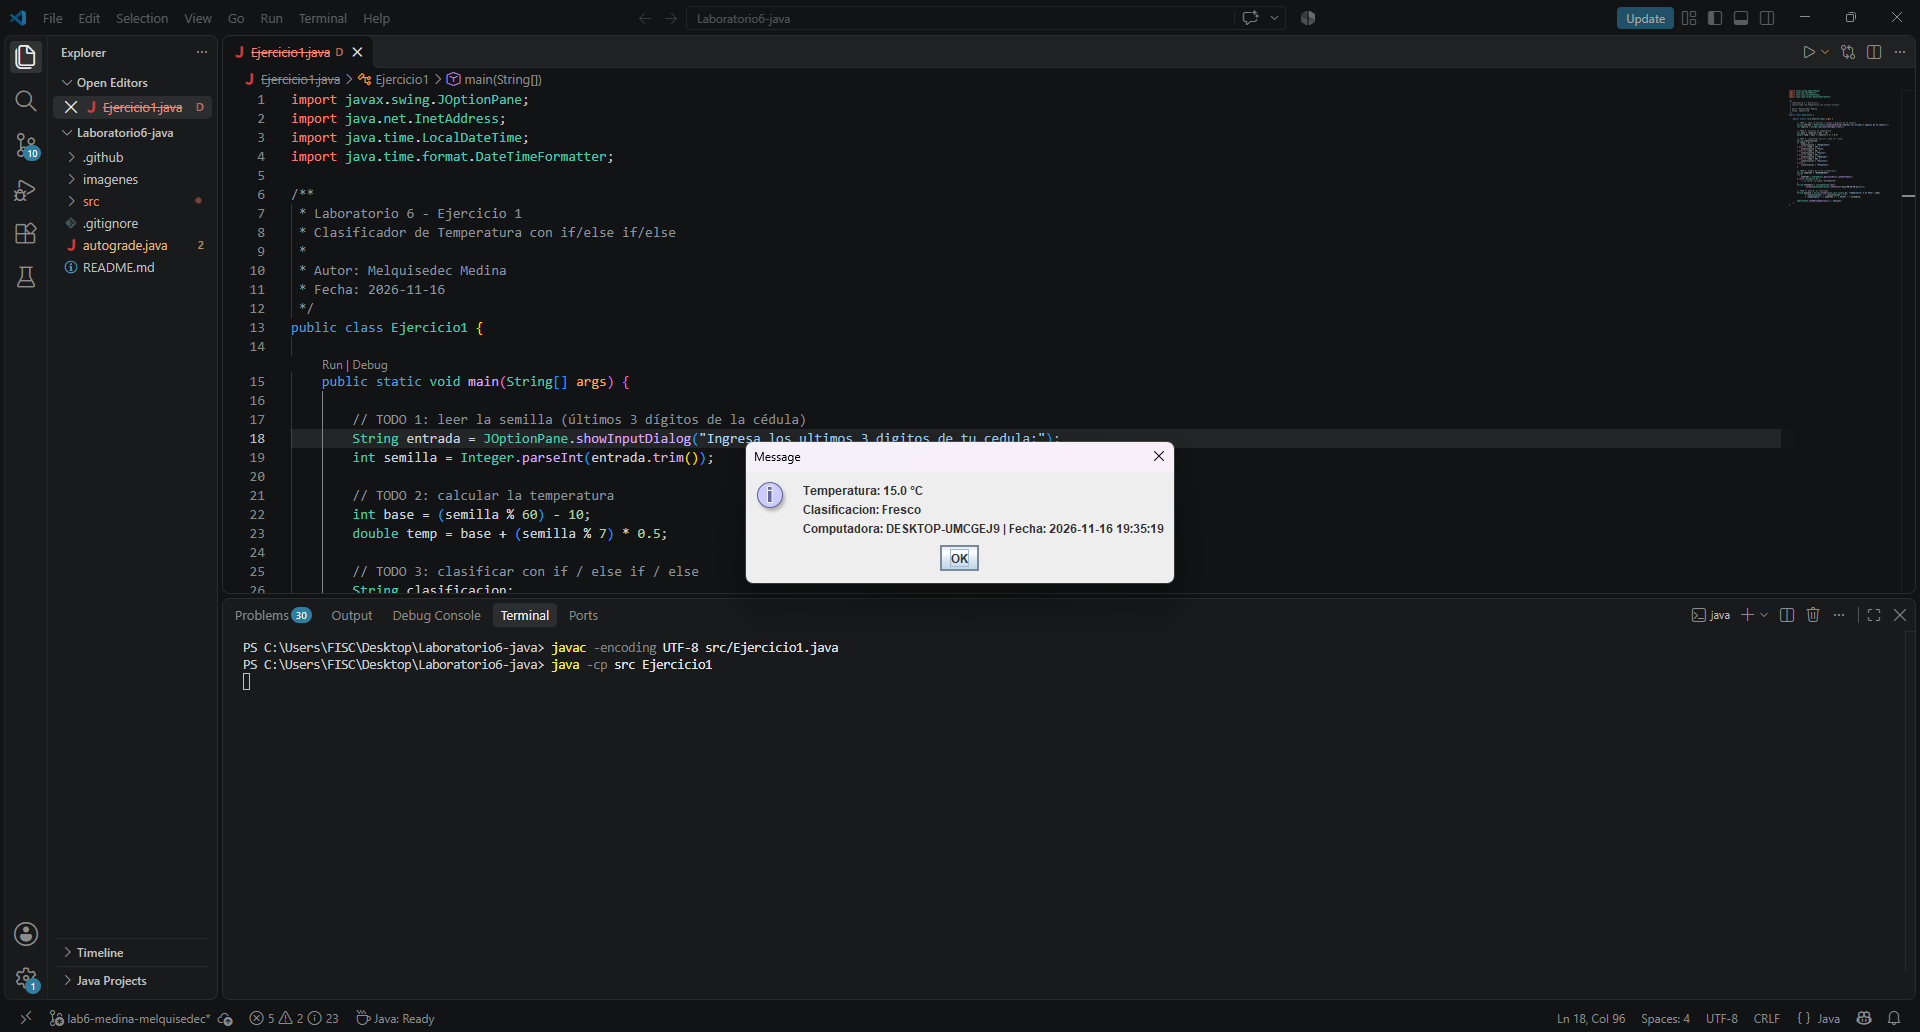
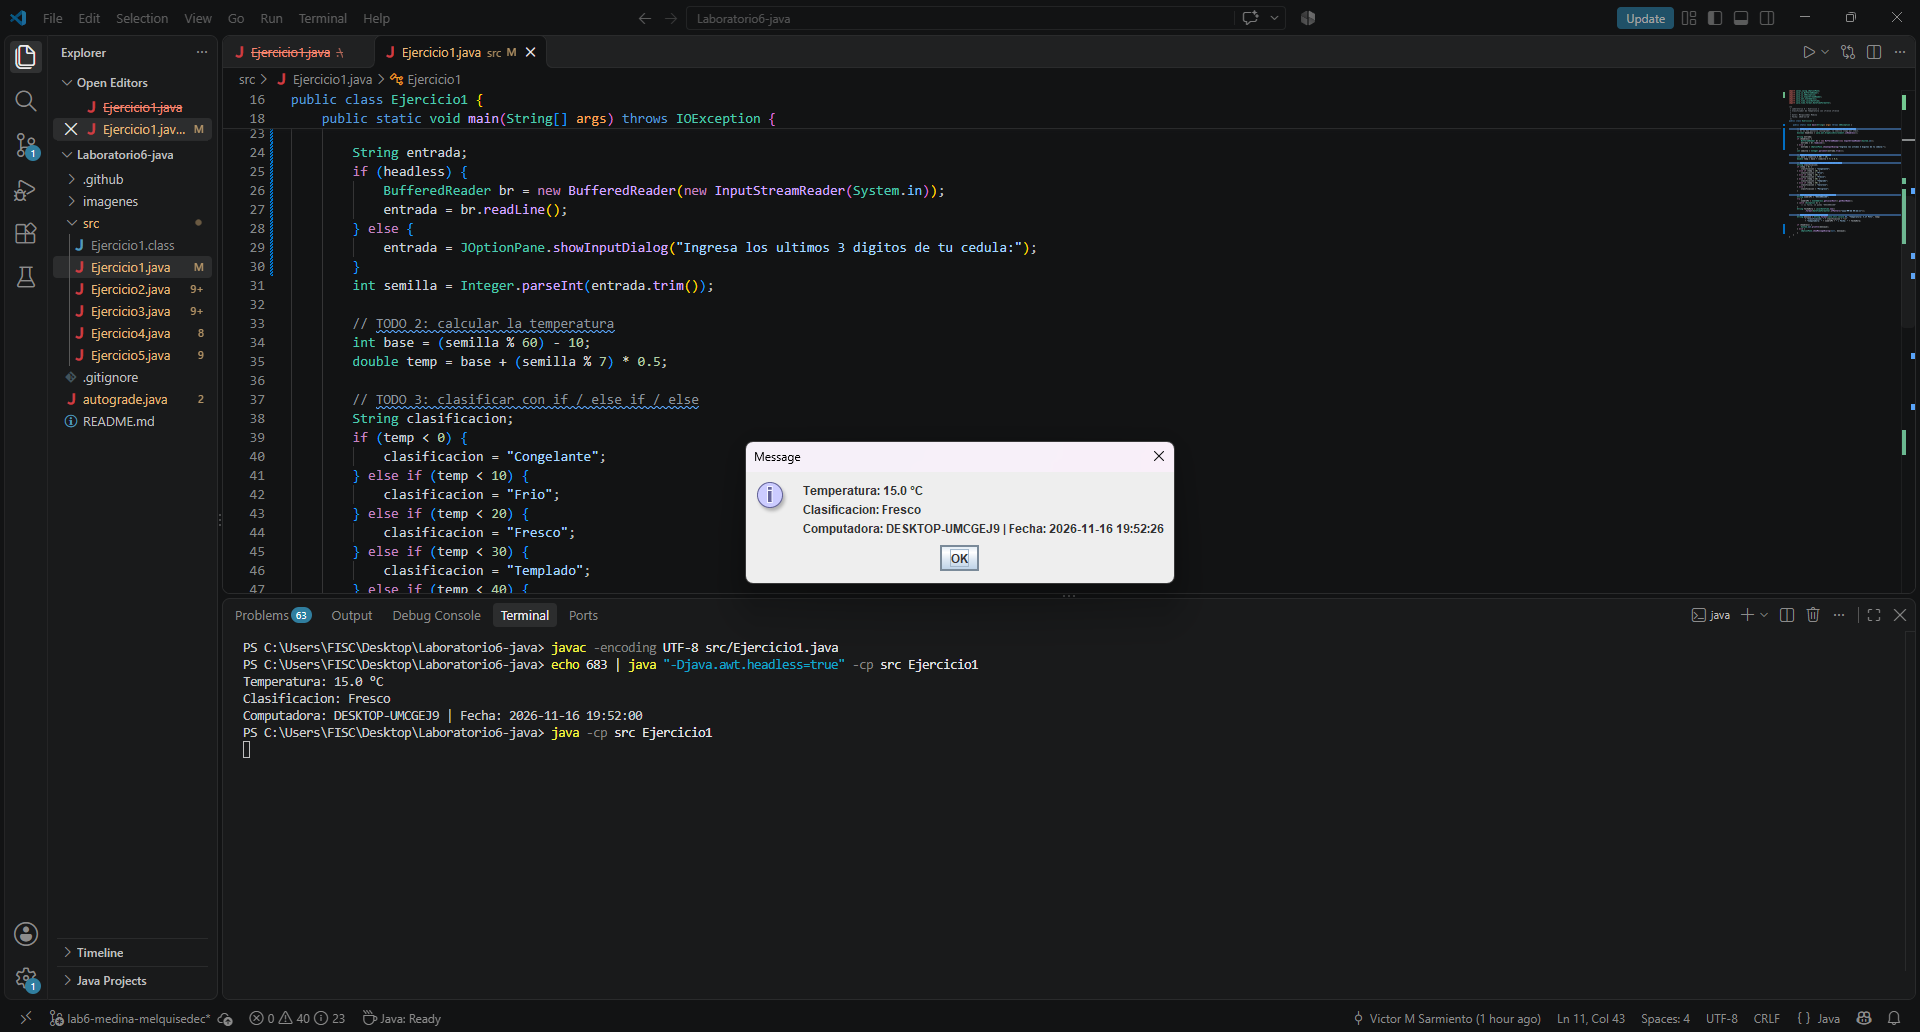
ej1: soporte modo headless para autograde

diff --git a/src/Ejercicio1.java b/src/Ejercicio1.java
@@ -1,4 +1,7 @@
 import javax.swing.JOptionPane;
+import java.io.BufferedReader;
+import java.io.IOException;
+import java.io.InputStreamReader;
 import java.net.InetAddress;
 import java.time.LocalDateTime;
 import java.time.format.DateTimeFormatter;
@@ -12,10 +15,19 @@ import java.time.format.DateTimeFormatter;
  */
 public class Ejercicio1 {
 
-    public static void main(String[] args) {
+    public static void main(String[] args) throws IOException {
 
-        // TODO 1: leer la semilla (últimos 3 dígitos de la cédula)
-        String entrada = JOptionPane.showInputDialog("Ingresa los ultimos 3 digitos de tu cedula:");
+        // TODO 1: leer la semilla (ultimos 3 digitos de la cedula)
+        // Si no hay pantalla (autograde), la semilla llega por stdin.
+        boolean headless = java.awt.GraphicsEnvironment.isHeadless();
+
+        String entrada;
+        if (headless) {
+            BufferedReader br = new BufferedReader(new InputStreamReader(System.in));
+            entrada = br.readLine();
+        } else {
+            entrada = JOptionPane.showInputDialog("Ingresa los ultimos 3 digitos de tu cedula:");
+        }
         int semilla = Integer.parseInt(entrada.trim());
 
         // TODO 2: calcular la temperatura
@@ -53,6 +65,10 @@ public class Ejercicio1 {
                 + "Clasificacion: " + clasificacion + "\n"
                 + "Computadora: " + nombrePC + " | Fecha: " + fechaHora;
 
-        JOptionPane.showMessageDialog(null, mensaje);
+        if (headless) {
+            System.out.println(mensaje);
+        } else {
+            JOptionPane.showMessageDialog(null, mensaje);
+        }
     }
 }
